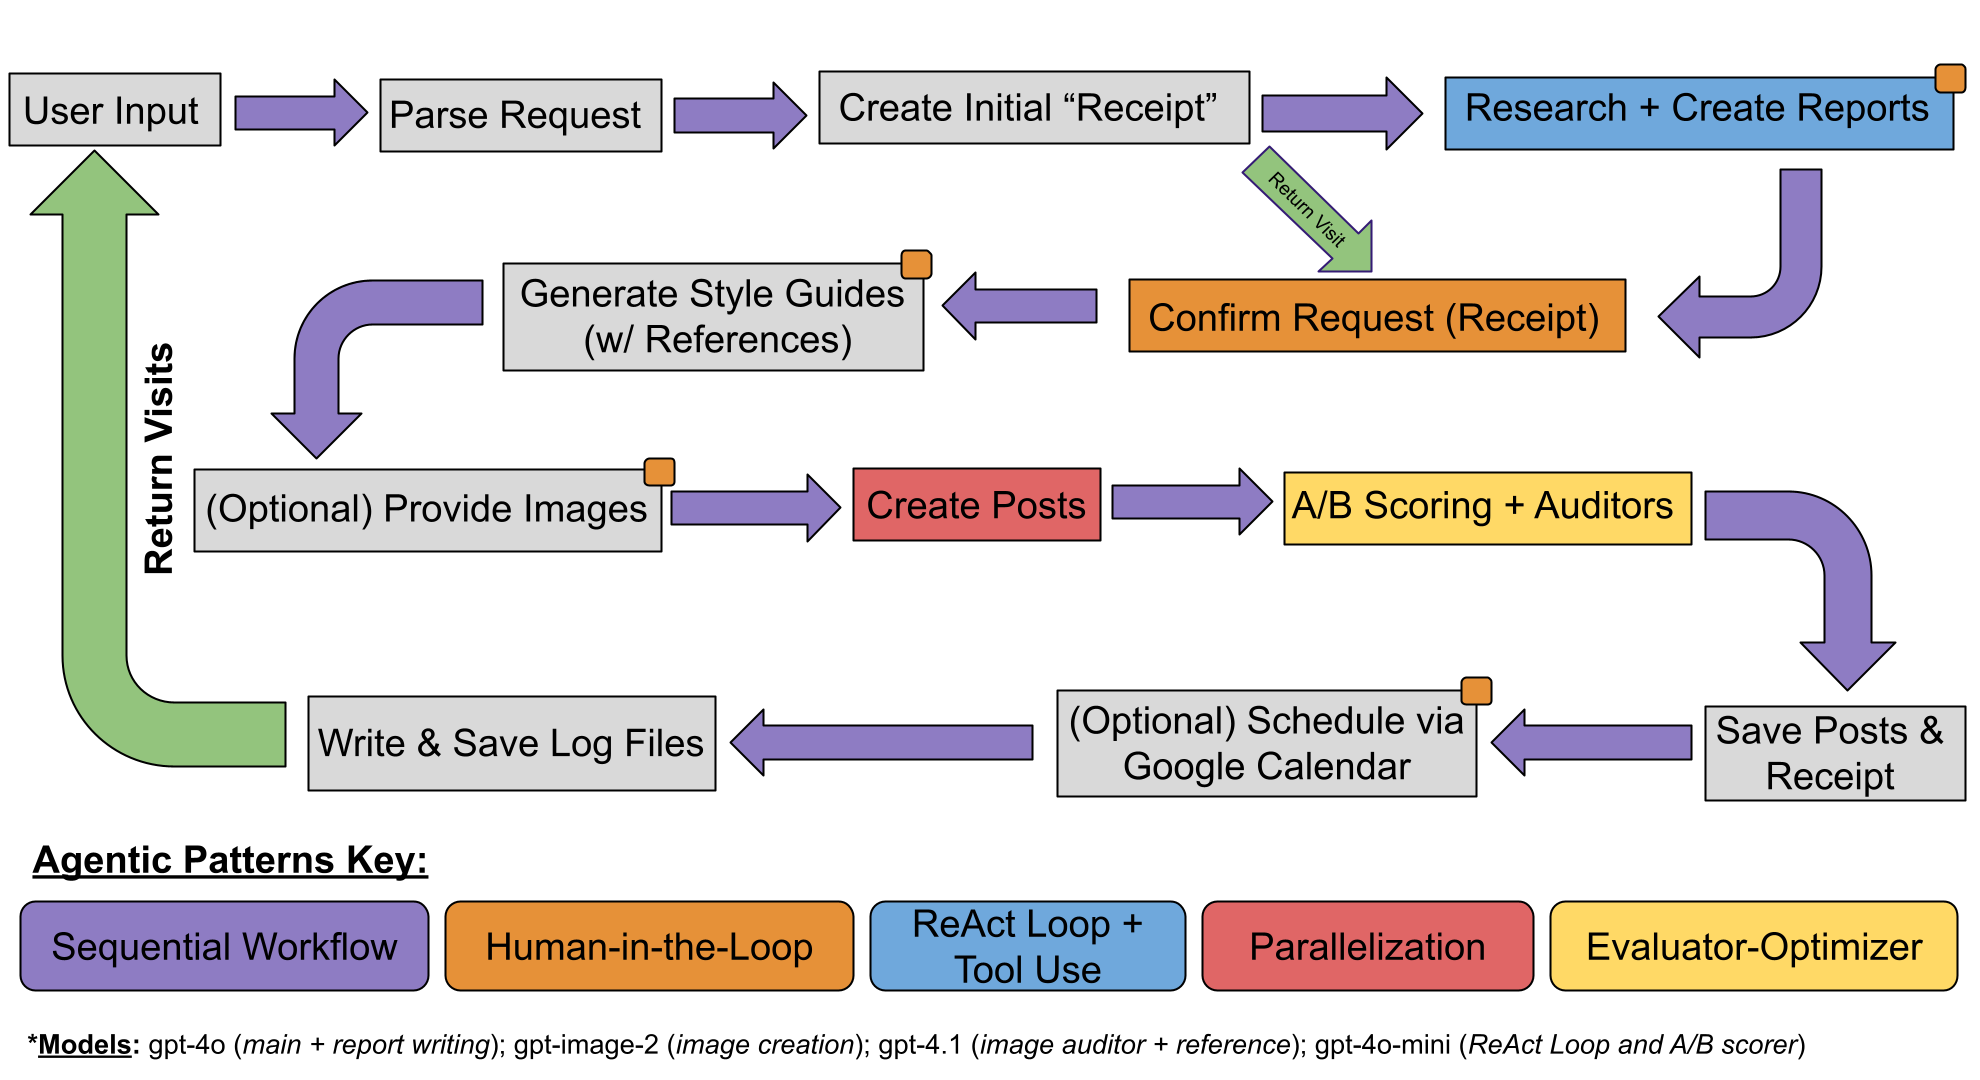
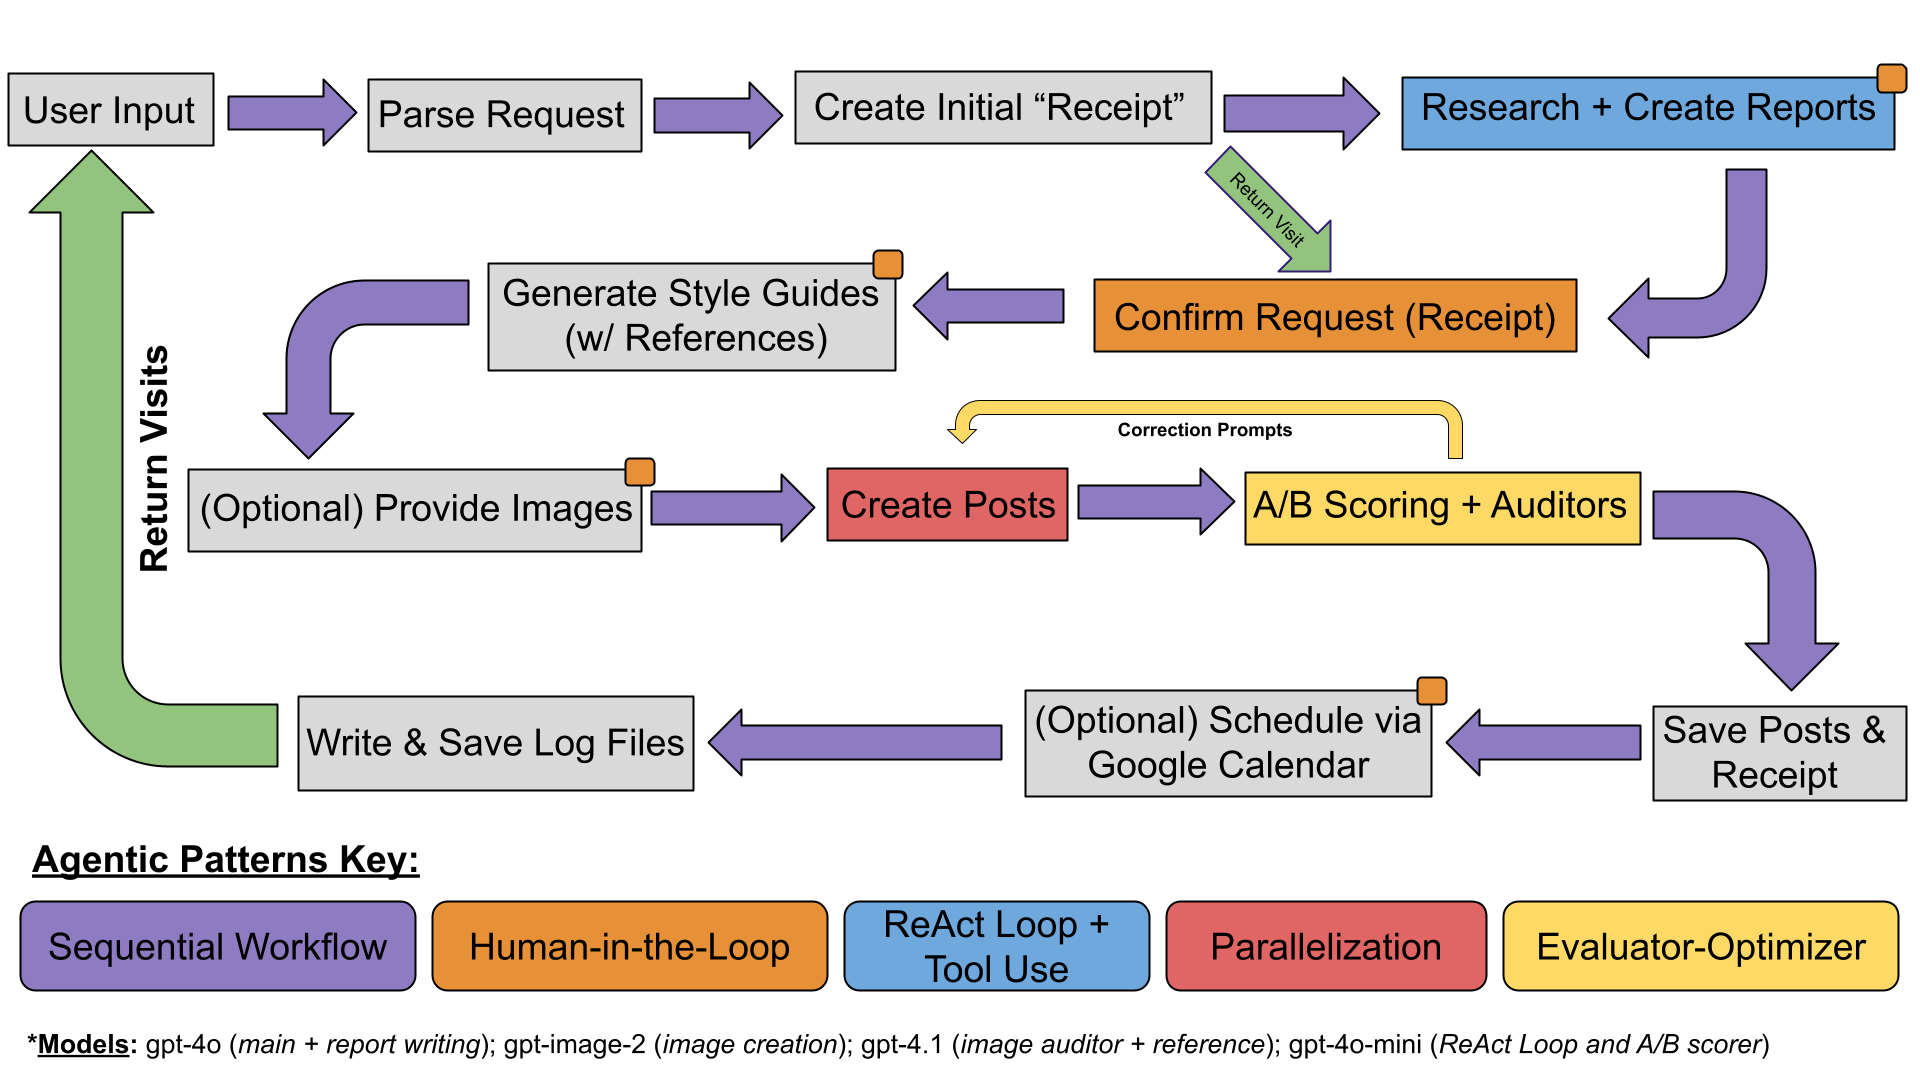
final submission

diff --git a/README.md b/README.md
@@ -30,7 +30,7 @@ The `Help Documents` folder contains information that we worked with the AI to g
 ## **Objective & Design Brief**
 
 **The Problem:**
-Consistent, regular social media posts are vital for informing and engaging with a company’s customers and supporters. Unfortunately, the time it takes to plan, create, schedule, and post each one of these regular posts can often take much longer than someone might expect. This is especially the case for someone trying to maintain a consistent style and focus for a marketing campaign, which a simple ChatGPT prompt cannot do. The time taken for this regular post is also compounded for a marketing professional at a marketing agency who must balance posts for **multiple** clients (*companies*) with **multiple** products on **multiple** platforms. This takes away time from when these professionals could be utilizing their expertise and creativity to develop marketing strategies, analyze the results of a digital marketing campaign, or create more complex posts (e.g., videos). Additionally, as one of the creator of this project is (David), you could be volunteering as marketing manager for an organization you are a part of and instead being able to spend your limited time creating cool or interesting posts, you have to spend most of your time creating these "regular" frequent posts, that you even sometimes forget to post. Therefore, we developed this AI Agent Prototype to solve this issue by helping to create and schedule actual posts (*or at least strong inspirations*) that improve a company social media presence and free up the user to do the tasks that they enjoy more and require more of their expertise and creativity. 
+Consistent, regular social media posts are vital for informing and engaging with a company’s customers and supporters. Unfortunately, the time it takes to plan, create, schedule, and post each one of these regular posts can often take much longer than someone might expect. This is especially the case for someone trying to maintain a consistent style and focus for a marketing campaign, which a simple ChatGPT prompt cannot do. The time taken for this regular post is also compounded for a marketing professional at a marketing agency who must balance posts for **multiple** clients (*companies*) with **multiple** products on **multiple** platforms. This takes away time from when these professionals could be utilizing their expertise and creativity to develop marketing strategies, analyze the results of a digital marketing campaign, or create more complex posts (e.g., videos). Additionally, as one of the creator of this project is (David), you could be volunteering as social media manager for an organization or club you are a part of and instead of being able to spend your limited time creating cool or interesting posts, you have to spend most of your time creating these "regular" frequent posts, that you even sometimes forget to post. Therefore, we developed this AI Agent Prototype to solve this issue by helping to create and schedule actual posts (*or at least strong inspirations*) that improve a company social media presence and free up the user to do the tasks that they enjoy more and require more of their expertise and creativity. 
 
 **Objective**: To develop an interactive agent that will create and schedule social media post(s) for a specific organization’s product or event while also keeping a consistent style and focus over an extended period of time. A user should then be able to come back in the future and request the Agent create additional posts for that organization’s product or event. Those future posts should have a consistent focus and similar style to the first, while also allowing the User to update the existing style of the posts with new reference posts as well as images to use in the actual posts.
 
@@ -41,24 +41,24 @@ Consistent, regular social media posts are vital for informing and engaging with
 Our project uses a few different Agentic Patterns to achieve its goals. The first, and most obvious, is Sequential Workflow, which is what the overall workflow of this process is. There is a clear step-by-step process where the output of one task is the input in the next (*see the Agent Workflow above*). Another pattern is Human-in-the-Loop, which is present throughout, such as when it asks the user to confirm the “receipt” or when it uses fuzzy search and asks, “Is Rita’s the same as ‘Rita’s Italian Ice’?” The next pattern is ReAct Loop (Reason + Act) with Tool Use. In this pattern, the Agent reasons what tool it should use to research the given company or product, such as search the web, fetch a specific URL, read a document, or ask a clarifying question. It then acts and continues the loop. Then, there is a Parallelization Agentic Pattern, which occurs when posts for two different social media platforms are being created at the same time. For example, `InstagramAgent` and `TwitterAgent` will work in parallel, or at the same time, creating captions for their respective posts. Finally, there is the Evaluator-Optimizer Pattern, which is similar to the Orchestrator Pattern from our class, and it is near the end where the image auditor evaluates an image and sends a correction prompt back if it fails the audit. The image generator then makes a new image with this correction prompt, and the image auditor evaluates it again. This loop continues until the image passes the image auditor or it reaches max iterations and the auditor fails the post.
 
 **Models:**
-The main model used in this AI Agent Prototype was gpt-4o, a very capable model that we knew could handle the tasks we were planning to do. We also felt it properly balanced speed, quality, and token use, the three big considerations when choosing a model. Several other OpenAI models were also used because of the specific tasks they were tasked with performing. Initially, we used DALL-E 3 to create the images but later decided to switch to the newer gpt-image-2. Despite being slightly more expensive per photo generated, gpt-image-2 would actually likely save us money by needing to generate fewer images to be audited and they would be higher quality, which we found to be extremely important. Then, for analyzing the screenshots and auditing the images, we decided to upgrade from gpt-4o to gpt-4.1, because, for "vision" tasks, it is reportedly better at performing them, cheaper per token, and faster at conducting them than gpt-4o.
+The main model used in this AI Agent Prototype was gpt-4o, a very capable model that we knew could handle the tasks we were planning to do. We also felt it properly balanced speed, quality, and token use, the three big considerations when choosing a model. Several other OpenAI models were also used because of the specific tasks they were tasked with performing. Initially, we used DALL-E 3 to create the images but later decided to switch to the newer gpt-image-2. Despite being slightly more expensive per photo generated, gpt-image-2 would actually likely save us money by needing to generate fewer images to be audited and they would be higher quality, which we found to be extremely important. Then, for analyzing the screenshots and auditing the images, we decided to upgrade from gpt-4o to gpt-4.1, because, for "vision" tasks, it is reportedly better at performing them and cheaper per token, while also being about the same speed, or faster, than gpt-4o.
 
 The A/B Scorer and the Research ReAct Loop use gpt-4o-mini because it is faster and cheaper than gpt-4o and these tasks are much simpler. Initially, for A/B Scorer (rates captions on a scale from 0-10) we used gpt-3.5-turbo and while through prompt engineering we did have it get close to the results we wanted, there were too many technical limitations to this old model. Therefore, we ultimately decided it would be worth it to upgrade to a slightly stronger model, gpt-4o-mini, so its scoring would be more accurate. The Research ReAct Loop, using the call tools and gathering information, also uses gpt-4o-mini. However, once the observations are collected and the report (company or product) is ready to be made, the model switches back to gpt-4o, because we felt a stronger model for this more complex task would be more appropriate here.
 
 **Not Simple ChatGPT Prompt:**
 Hopefully that gave some insight on why this is useful and much more than a simple ChatGPT prompt. However, we also just wanted to outline a few key points of how this goes beyond a basic ChatGPT prompt:
-1.	Brand Memory - Same Company Report, Product Report, Style Guide used for Consistent Current and Future Post Creation
+1.	Brand Memory - Same Company Report, Product Report, and Style Guide used for Consistent Current and Future Post Creation
 2.	A/B Testing / Auditor - Quality Checks & Guardrails
-3.	Research Structure -> Web Search + URL Links + Files (can store very new or unreleased products/events information)
+3.	Research Structure -> Web Search + URL Links + Files + Ask (can store very new or unreleased products/events information)
 4.	Schedule to Google Calendar
 
 ---
 ## **The Prompt Iteration Log**
 
-Our Prompt Engineering Journey had many twists and turns, and we wanted to highlight the three primary areas where we encountered some limitations/failures with our initial prompts but used different prompt engineering techniques to optimize our prompts. The three key areas where this was most notable were implementing the Image Auditor, researching the company/product reports, and the A/B Scorer. 
+Our Prompt Engineering Journey had many twists and turns, and we wanted to highlight the two primary areas where we encountered some limitations/failures with our initial prompts but used different prompt engineering techniques to optimize our prompts. The two key areas where this was most notable were the Image Auditor and the Research ReAct Loop + Tool Use.
 
 ### **Prompt Engineer #1 - Image Auditor:**
-For this AI Agent Prototype, it generates captions as well as images to be used for social media. While the A/B Scorer and Caption Auditor can pretty easily evaluate text (e.g., the captions) for quality and ethical guidelines, images are much harder to do. However, we still believe it is very important to try to ensure a certain level of quality because, since the goal is for this image to be shared with the public, no image is better than a bad image. Therefore, we implemented an Evaluator-Optimizer Agentic Pattern using gpt-4.1, where this “Image Auditor” would evaluate each image for whether it passed certain criteria, such as “no text clipping”, “no misspellings”, and “no incorrect logos”.
+For this AI Agent Prototype, the agent generates captions and images to be used for social media posts. While the A/B Scorer and the Caption Auditor can pretty easily evaluate text (e.g., the captions) for quality and ethical guidelines, images are much harder to do this for. However, we believe this is very important to do since the goal is for this image to be shared with the public, so no image is better than a bad image. Therefore, we implemented an Evaluator-Optimizer Agentic Pattern using gpt-4o (*later gpt-4.1*), where this “Image Auditor” would evaluate each image for whether it passed certain criteria, such as “no text clipping”, “no misspellings”, and “no incorrect logos”.
 
 
 **(1).** The first stage of this implementation was without the image auditor, and, as mentioned in the model section, DALL-E 3 was used to create images. This initial iteration had no quality control and while the initial generated images themselves seemed decent, they had major issues that made them unusable, such as incorrect logos, factual lies, misspelled words, or cut off text, the latter of which was the most common.
@@ -71,12 +71,12 @@ For this AI Agent Prototype, it generates captions as well as images to be used 
 
 **(5).** For the fifth iteration of our prompt, we changed our approach to the correction prompts. The prompts were changed to be more direct and concise while also focusing purely on what to change. Additionally, we implemented an escalating correction prompt approach. After the first failure, a direct, concise, and actionable correction prompt was given, “TEXT CUTOFF – KEEP ALL TEXT FAR FROM EVERY EDGE”. After the second failure, a more urgent and emotional correction prompt was given, “DON’T LET TEXT BE CUT OFF OR I WILL BE FIRED”. Finally, after the third failure, the “nuclear” option would be employed to hopefully get a decent image still, and included correction prompts like “NO TEXT IN THE IMAGE AT ALL. ZERO WORDS. ZERO LETTERS.” In the end, while this did see some images now pass the audit, most still had to go to the “nuclear” option, which was still not ideal.
 
-**(6).** For the sixth iteration of our prompt, we decided to loosen the restriction on the auditor because we found it was oversensitive and failing images for “cut off text” which were clearly did not have “cut off text.” We achieved this by changing aspects of our prompt like removing “ZERO TOLERANCE” and changing it to “Only fail if letters are visibly cut off.” Additionally, we adjusted the examples of when to fail and added examples of when not to fail. As a result of these changes, the images almost always eventually passed and rarely had to go to the “nuclear” option, while still almost no images were passed that should have failed the audit.
+**(6).** For the sixth iteration of our prompt, we decided to loosen the restriction on the auditor because we found it was oversensitive and failing images for “cut off text” which clearly did not have “cut off text.” We achieved this by changing aspects of our prompt like removing “ZERO TOLERANCE” and changing it to “Only fail if letters are visibly cut off.” Additionally, we adjusted the examples of when to fail and added examples of when not to fail. As a result of these changes, the images almost always eventually passed and rarely had to go to the “nuclear” option, while still almost no images were passed that should have failed the audit.
 
-**(7).** Finally, the seventh and final iteration of our prompt involved updating the OpenAI models we used for image generation, gpt-image-2 instead of DALL-E 3, and for image auditing, gpt-4o to gpt-4.1. This change improved the quality of images generated and the effectiveness of the image auditor, while overall decreasing costs due to less audit-evaluator loops needing to be conducted and the image generator being more responsive to the correction prompts. Therefore, while there are still some aspects where we could continue to adjust, this process has clearly become more effective and efficient at producing good quality images that don’t violate important guardrails through the various prompt engineering techniques we have implemented.
+**(7).** Finally, the seventh and final iteration of our prompt involved updating the OpenAI models we used for image generation, gpt-image-2 instead of DALL-E 3, and for image auditing, gpt-4.1 instead of gpt-4o. This change improved the quality of images generated and the effectiveness of the image auditor, while overall decreasing the cost due to less evaluator-optimizer loops needing to be conducted and the image generator being more responsive to the correction prompts. Therefore, while there are still some aspects where we could continue to adjust, through these various prompt engineering techniques, this process has clearly become more effective and efficient at producing good quality images that don’t violate important guardrails.
 
 
-**BEFORE / First Auditor Prompt (Step 2):**  
+**BEFORE / First Image Auditor Prompt (Step 2):**  
 ```python
 """
 You are a strict brand compliance auditor reviewing a social media image.
@@ -166,17 +166,16 @@ Respond ONLY with a JSON object — no markdown fences:
 """
 ```
 
-### **Prompt Engineer #2 - Research Agent**
-Another example of prompt engineering that we did in this AI Agent Prototype was around how researching a company and/or a product was conducted. The initial Research `ReAct` Loop allowed given URLs, uploaded Files, or Web Searches to be used to gather information. However, this Researching loop had a few different issues that ranged from slightly different spelled company names creating entire new folders, ruining the quick creation and consistent style of posts, to the research agent returning mostly "null" for the information it was trying to find about a company or product. Therefore, we used our Prompt Engineering to identify and address these issues.
+### **Prompt Engineer #2 - Research ReAct Loop + Tool Use**
+Another example of prompt engineering that we did in this AI Agent Prototype was around the Research ReAct Loop and Tool Use. The initial Research `ReAct` Loop allowed given URLs, uploaded Files, or Web Searches to be used to gather information. However, this Researching loop had a few different issues that ranged from different spellings of the same company creating entire new folders, ruining the quick creation and consistent style of posts, to the research agent returning mostly missing, or "null", for the information it was trying to find about a company or product. Therefore, we used prompt engineering techniques to identify and address these issues.
 
 **(1).** The first iteration of this Research ReAct Prompt addressed the first problem we identified, which was that the Agent could only handle exact name matches for a company. We often found that "Rita's" was not matching to "Rita's Italian Ice.” Therefore, using all lowercase, we made it so the Agent would check using `SequenceMatcher`, which compares the two strings and returns a similarity score (we used a 0.6 threshold), and `Substring Containment`, which would be true or false depending if the company name is contained in any of the company folder names (e.g., "*Rita's*" in "*Rita's* Italian Ice"). Finally, we included an Agentic Pattern, `Human-in-the-Loop`, to not just assume fuzzy match was correct or two companies might have similar names, so the AI Agent asks the user is this the right company, "Is Rita's the same company as Rita's Italian Ice?" This results in the agent being able to appropriately handle different spellings of the same company more effectively. Additionally, if it does not find an exact or fuzzy matches, it will look up the official name of the company and ask to confirm with User (e.g., so the folder would be labeled "Rita's Italian Ice" instead of just "Rita's"). *This was also probably more of a coding change than a prompting change, but it directly affected our prompt, so we felt it was useful to include it here.*
 
 **BEFORE for Product Code:**
 ```python
-if storage.product_exists(company_name, product_name):
+if self.storage.product_exists(company_name, product_name):
     return product_name
-else:
-    research from scratch
+# else: falls through to research from scratch
 ```
 
 **AFTER for Product Code:**
@@ -212,7 +211,7 @@ return input_name
 ```
 **(2).** The second iteration of this Research ReAct Prompt focused on the problem that the Research Agent wasn't gathering enough information to fill out the necessary information. Initially, we found the agent was not gathering much information and in turn was leaving most information fields (JSON) of the company report and product report blank (or "null"). First of all, we found the Agent sometimes did zero searches before writing the report, so we clarified it had to do at least one `tool call` before writing the report. Next, we increased the `MAX_STEPS` from 3 to 6, which is the number of times the Agent can use `tool calls`. Too few calls could leave the Agent without needed information, like what we had, but too many could cause it to cost more and take longer. Finally, to address this issue, we discovered that we cut off the information from each observation at 300 characters, which was far too few to gather enough information. This first change was mostly a code change, but it did directly affect the prompt's results. Therefore, we increased the character limit per observation from 300 to 2000. As a result, the Research ReAct Loop now was able to fill in most of the company and product reports. However, there were still often more "null" fields than we would like, which will lead us to our next iteration.
 
-**(3).** The third iteration of this Research ReAct Prompt focused on the problem that the Research Agent was still often leaving too many "null" fields in the company and product reports. We initially considered increasing the `MAX_STEP` again, but when we looked at the Agent's actions, it was never reaching those `MAX_STEPS`. Instead, it often only did one search, or `tool call`. Therefore, we added two things within the ReAct loop and one after. The first thing added within the ReAct Loop was in the "IMPORTANT" section was added parts that basically said, "If search returns thin results, do another search". This resulted in the Agent doing more searches when it did not have a lot of information or "thin" results. For the second addition to the ReAct Loop, we added a fourth tool, the `ask` tool. This `ask` tool would allow the Agent to ask the user a clarifying question (e.g. "What is the price range for Kiwi Melon?"). However, to make sure the Agent did not default to ask the user a question, we engineered a hierarchy of what `tool calls` the Agent would use first. The first tool it would use is `read_document`, then `fetch_URL`, then `web_search`, and finally `ask`. In addition to these changes in the ReAct Loop, we also added a "null" value check after the loop (greater than 1 "null"). If this check fails, it will then prompt the user to provide a URL or File, because too many nulls can really hurt the Agent's ability to create effective posts. However, we also set it to allow the User to advance if they choose to regardless. This is another use of `Human-in-the-Loop` Agentic Pattern. As a result of these changes, the Agent was able to more effectively complete the company and products reports and provided a stronger factual foundation for the post creation later in the process.
+**(3).** The third iteration of this Research ReAct Prompt focused on the problem that the Research Agent was still often leaving too many "null" fields in the company and product reports. We initially considered increasing the `MAX_STEP` again, but when we looked at the Agent's actions, it was never reaching those `MAX_STEPS`. Instead, it often only did one search, or `tool call`. Therefore, we added two things within the ReAct loop and one after. The first addition within the ReAct Loop was in the "IMPORTANT" section and was basically that, "If search returns thin results, do another search". This resulted in the Agent doing more searches when it did not have a lot of information or "thin" results. For the second addition to the ReAct Loop, we added a fourth tool, the `ask` tool. This `ask` tool would allow the Agent to ask the user a clarifying question (e.g. "What is the price range for Kiwi Melon?"). However, to make sure the Agent did not default to ask the user a question, we engineered a hierarchy of what `tool calls` the Agent would use first. The first tool it would use is `read_document`, then `fetch_URL`, then `web_search`, and finally `ask`. In addition to these changes in the ReAct Loop, we also added a "null" value check after the loop (greater than 1 "null"). If this check fails, it will then prompt the user to provide a URL or File, because too many nulls can really hurt the Agent's ability to create effective posts. However, we also set it to allow the User to advance if they choose to regardless. This is another use of `Human-in-the-Loop` Agentic Pattern. As a result of these changes, the Agent was able to more effectively complete the company and products reports and provided a stronger factual foundation for the post creation later in the process.
 
 **(4).** The fourth, and final, iteration of this Research ReAct Prompt focused on improving the final check after the ReAct Loop. While having only one missing piece of information is generally okay, after more testing, we decided that it would be useful to also add a way to address this last remaining “null.” Therefore, while there is more than one "null" value, the Agent will still ask for a specific URL/File for more information, but, if there is only one "null" value, it will just directly ask the User about it. This adds some flexibility and nuance to this prompt and the final check while also not just leaving a bit of information unknown when it does not have to be.
 
@@ -260,7 +259,7 @@ Answer: { ... json report ... }
 """
 ```
 
-**AFTER / First Research ReAct Prompt:**
+**AFTER / Final Research ReAct Prompt:**
 ```python
 MAX_STEPS = 6
 
@@ -314,10 +313,6 @@ Answer: { ... json report ... }
 """
 ```
 
-### **Prompt Engineer #3 - A/B Scorer:**
-
-This one will be much shorter if we want to do it. Basically its just adjusting what range the scoring should be in, what is the threshold to instantly pass, and the parallel workflow.
-
 ---
 ## **Functional Code (The Logic)**
 
@@ -329,17 +324,23 @@ Here is also a link to the Recorded Demo: [Demo](https://youtu.be/875siZ7Ic-4)
 ## **Evaluation & Ethics**
 
 **Testing and Evaluating the Agent:**
-The Agent was evaluated by a number of different crtieria. The first and most obvious was the A/B Score and Caption and Image Auditor were used to judge the quality of the Agent's output. In particular, the auditors would fail the Agent's output if it did not pass a minimum crtieria. Therefore, the Auditor's pass or fail was one of the key idicators for the Agent's success. The Scorer would just take the highest rated posts and if the Agent's output achieved 9.0/10 it would be considered excellent caption while anything between 7.5 to 8.5 is considered good. However, earlier in the process, one way the Agent was evaluated was how many "null" fields it hand in the Company Report and the Product Report. More than one normally showcased a problem and early on in this processes company and/or product would have mostly none and would be determintal to the later half when it came time to create the posts. Therefore, whether the Auditors passed or failed posts, what the score of those posts were, and the number of null values in the company or product reports were some of the main ways we tested and evaluated our Agent.
+We tested and evaluated our Agent in a number of different ways.
 
-The Agent was also evaluated on how flexible or adaptable it was, or in other words, how was it able to adapt to the unique reuests or human errors of individuals. We tested out what if a company did not have an online presence, it got no information, so we added an option to add a file on a company, and now it was flexible. What if someone wanted 1 Post on Instagram and 2 Posts on Twitter? What if they spelled Rita's Italian Ice as "Rita's", would the agent create a duplicate company? What if the user added an additional guiding question to their request, can it adapt to do that request or is it too rigid? If someone added a new reference and only slightly wanted to update their style guide, would the model be able to understand what they say if it not word for word what an option is (*sentiment analysis*) and is that even an option? 
+The first way we evaluated our Agent was to look at how good the actual posts created were. This was done by using the A/B Scorer to evaluate the quality of each caption created, the Image Auditor to evaluate the quality of each image created, and the Caption Auditor to evaluate each caption created based on ethical guardrails. The A/B Scorer pushes through the highest rated caption (from 0 to 10) or the first to achieve a score of 9 or higher. Therefore, we evaluated the Agent by both what the final post caption’s score was as well as how many tests it normally had to go through. Additionally, whether the Agent’s output passed the Auditor, as well as how many times it took to pass, was another way we evaluated the quality of the Agent. Finally, for quality evaluation of the Agent, we also just looked at the output posts, especially images, and evaluated it ourselves whether they looked good, okay, or bad.
 
-Finally, we also used humans, ours self as well as others (e.g., family members), to evaluated the output posts of the Agents. Were they good, bad, weird, offensive, etc.? Then, in addition, we also tested our Agent and showcased it to others, eveluating how the UI looks and how easy it is to navigate. The Steps were added to the Demo UI and set to match the Juypter Notebook so that new users can follow along easier.
+Another way we tested and evaluated the Agent was how well it created the Research Reports, Product Reports, and Style Guides, the backbone of this process. One indicator we looked at was how many missing, or “null”, fields each one of these had (*mainly company and product reports*). Additionally, how many “steps” did it take to gather the information it needed and whether it needed to ask a question or for more information from the User. The more it left missing and the more it needed to ask the User would help us evaluate how well it is gathering information to be able to write these reports.
 
+Next, we tested our Agent by trying to break it to see how flexible or adaptable it was, or, in other words, how it was able to adapt to the unique requests or human errors. Could it handle different spellings of the same company? No, so we added fuzzy search. Could it handle additional details in the request like “Make it a giveaway.” No, so we made it so the Agent could understand and use that. Could it handle the user asking for 1 Instagram post and 2 Twitter posts? Yes, but what if they tried to modify the total number of posts later on? It fails, so we added a new guardrail to prevent the user from doing this. We went through tests like this to evaluate how flexible and adaptable our Agent is so we could evaluate how well it would perform in a real-world scenario. 
 
-**Guardrails & Ethics:**
+Finally, we also evaluated the frontend of our Agent, which was mainly how clean and non-technically friendly the user interface (UI) was. Since the goal is for this to be adopted by marketing professional, a target market who likely values aesthetic and ease of use, we implemented a UI, specifically Rich UI, to help try to overcome this technical barrier. We tested this UI with ourselves as well as others (*mainly family members*) to see how well they could navigate it. For most of these tests, the people were generally able to understand how to use it, but also often still needed explanations for certain parts from us. Therefore, we believe there is still room for significant improvement in this area for our Agent in the future. 
 
-In this project, we have a number of guardrails to help ensure the code works as intended, the output is of a certain quality, and the output does not violate our ethical standards. For the first of these, we build in restrictions to what platforms to accept, since we only can work with Instagram, Twitter/X, and Blogs right now, restriction to what type of files can be uploaded, `.png`, `jpg`, or `jpeg`, which will help prevent errors or not get any information when analyzing the photos, and resitrictions to whether the user can modify the number of posts after they request if the agent is creating post for multiple platforms, beause this actually broke the code since it no longer new how many posts needed to be made for each platform. In each of these cases, we added explaination and guidance to help the user navigate them. 
+**Guardrails, Ethics, and Risks:**
 
-Next, A/B Scorers and Auditors (Caption and Image) are used as guardrails to help ensure a certain quality and certain criteria are met. The A/B Scorer uses another model, gpt-3.5-turbo, since it is fast and the task is not very complex, and the scorer scores the posts on its quality of the posts, using criteria like originality and brand voice. If it scores 9 or more it passes, if not it keeps going a total of three times and then the highest score is taken. The next guardrail is the Image Auditor, which helps to ensure a certain quality of image, such as no misspellings, no cut off words, and no wrong logos. The Image Auditor fails the posts that do violate these crtieria and sends a correction prompt back to the imagine creator (DALL-E 3) and the cycle repeats until  the post meets the criteria and pass or it reaches the maximum cycles and the post is rejected. Finally, the Caption Auditor doesn't evaluate quality, that is the A/B Scorer, it instead checks that there are no blatantly lies or hateful/harmful comments in the captions. However, it is only checking against the context it has been provided by the Research Agent, so it more like a last double check rather than a 100% fact checker.
+In this project, we have a number of guardrails to help ensure the code works as intended, the output is of a certain quality, and the output does not violate our ethical standards and avoid bias whenever possible. 
 
-For future expansion of this project, especailly if this expands in the cloud and accross a company, permissions will  need to be put into place to restrict who can see and modify what folders. You don't want just anyone modifiying what your company report, product reports, or style guides are without your permission because that would ruin the whole "consistent" focus and style that this AI Agent is meant to produce. Additionally, if someone is using this AI Agent to create posts for an upcoming product that isn't announced that suppose to be secret, this does send this information to OpenAI. However, its likely fine, but even then you will likely want to set permission so that not everyone can access that company folder in the `AI Storage`.
+For the first guardrail, we built restrictions into our Agent to only accept the platforms it can work with, since we only can work with Instagram, Twitter/X, and Blogs right now. Additionally, we added restrictions to what type of files can be uploaded, `.png`, `jpg`, or `jpeg`, which will help to prevent errors that are caused by the Agent trying to analyze a photo when that photo is in a format that it cannot read. Then finally we implemented guardrails to restrict whether the user can modify the total number of posts after they request if the User requests posts from multiple platforms because this broke the Agent since the Agent no longer knew how many of each type of post it needed to make for each platform, so it guessed. In each of these cases, we added explanation and guidance to help the user navigate them. 
+
+For the other main type of guardrail present, the A/B Scorer and Auditors (*Caption and Image*) are used as quality and ethics checks. The A/B Scorer uses another model, gpt-4o-mini, since it is fast and the task is not very complex, to score each post’s caption on its quality, using criteria like originality and brand voice. If it scores 9 or more, the caption passes, but if not, it keeps going a total of five times and then chooses the highest scoring caption across all five tests. The next guardrail is the Image Auditor, which helps to ensure a certain quality of image, such as no misspellings, no cut off words, and no wrong logos. The Image Auditor fails the posts that do violate these criteria and sends a correction prompt back to the imagine creator (gpt-image-2) and the cycle repeats until the post meets the criteria to pass or it reaches the maximum cycles and the post officially fails the audit (*and is rejected*). Finally, the Caption Auditor doesn't evaluate quality, that is the A/B Scorer, it instead checks that there are no blatant lies or hate speech in the captions. However, it is only checking against the context it has been provided by the Research Agent, so, for checking for lies, it is more like a last double check rather than a 100% accurate fact checker.
+
+For future expansion of this project, especially if this expands in the cloud and across a company, permissions will need to be put into place to restrict who can see and modify what folders. You don't want everyone to modify what your company reports, product reports, or style guides are without your permission because that would ruin the whole "consistent" focus and style that this AI Agent is meant to produce. Therefore, you will likely want to set permission depending on who you want to be able to access which folders, which will help improve collaboration too. However, if someone is using this AI Agent to create posts for an upcoming product that isn't announced that is supposed to be secret, this Agent does send this information to OpenAI, which could cause security problems too.
+